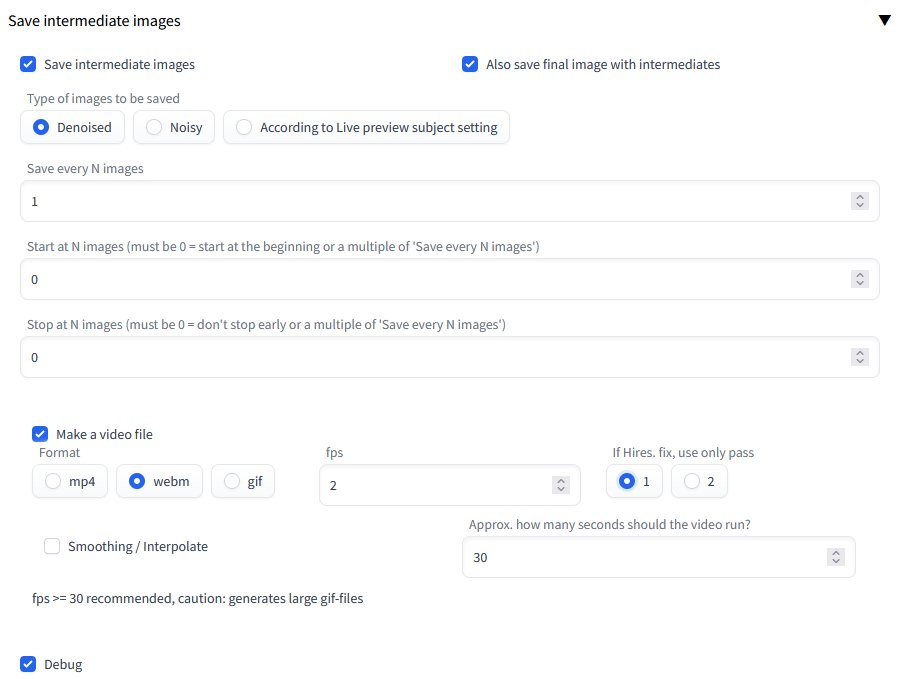
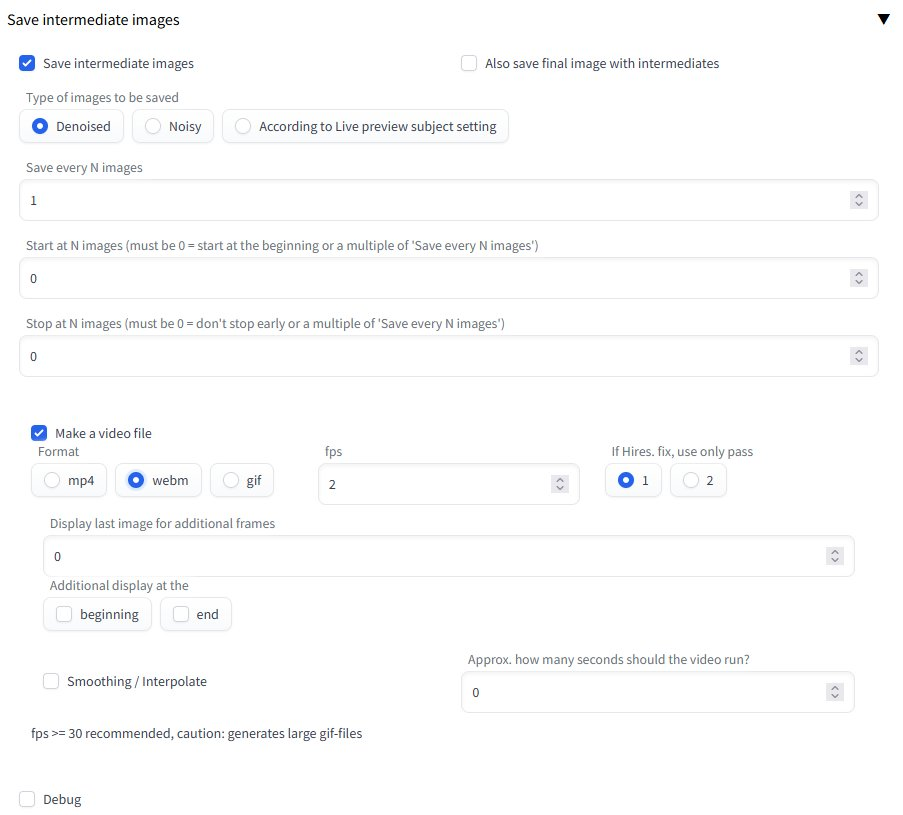
Video: Display last image options, #18

diff --git a/scripts/sd_save_intermediate_images.py b/scripts/sd_save_intermediate_images.py
@@ -18,8 +18,55 @@ import gradio as gr; gr.__version__
 
 orig_callback_state = KDiffusionSampler.callback_state
 
+# New args, regex for npp, find: (ssii_video_hires)(?=,)
+# replace: \1, ssii_add_last_frames, ssii_add_last_pos
 
-def make_video(p, ssii_is_active, ssii_final_save, ssii_intermediate_type, ssii_every_n, ssii_start_at_n, ssii_stop_at_n, ssii_video, ssii_video_format, ssii_video_fps, ssii_video_hires, ssii_smooth, ssii_seconds, ssii_debug):
+def ssii_set_num(name, i):
+    if i < 1000:
+        i = i + 1000
+    num = '{:04}'.format(i)
+    name_set_num = re.sub(r'^\d+-(\d{3,4})', f'{name.split("-")[0]}-{num}', name)
+
+    return name_set_num
+
+def ssii_add_last_frames_add(ssii_add_last_frames, add_files, i, batch_no, name_org, name_seq):
+    for frame in range(int(ssii_add_last_frames)):
+        name_added = ssii_set_num(name_seq, i)
+        add_files.append((batch_no, name_org, f"link:{name_added}"))
+        i = i + 1
+    return add_files, i
+
+def ssii_add_last_frames_logic(p, ssii_add_last_frames, ssii_add_last_pos, ssii_debug):
+    if len(ssii_add_last_pos) > 0:
+        add_files = []
+        prev_batch = None
+        for real_i, (batch_no, name_org, name_seq) in enumerate(p.intermed_files):
+            if prev_batch != batch_no:
+                if "end" in ssii_add_last_pos and prev_batch is not None:
+                    add_files, i = ssii_add_last_frames_add(ssii_add_last_frames, add_files, i, prev_batch, name_changed, prev_name_seq)
+
+                i = 0
+
+                if "beginning" in ssii_add_last_pos:
+                    name_last = next(c for a,b,c in p.intermed_files[::-1] if a == batch_no)
+                    match = re.search(r"^\d+-(\d{4})", name_last)
+                    num_last = int(match.group(1)) + int(ssii_add_last_frames)
+                    name_last = ssii_set_num(name_last, num_last)
+                    add_files, i = ssii_add_last_frames_add(ssii_add_last_frames, add_files, i, batch_no, name_last, name_seq)
+
+            name_changed = ssii_set_num(name_seq, i)
+            add_files.append((batch_no, name_org, name_changed))
+            i = i + 1
+            prev_batch = batch_no
+            prev_name_seq = name_seq
+
+        if "end" in ssii_add_last_pos:
+            add_files, i = ssii_add_last_frames_add(ssii_add_last_frames, add_files, i, batch_no, name_changed, name_seq)
+
+        p.intermed_files = add_files
+    return
+
+def make_video(p, ssii_is_active, ssii_final_save, ssii_intermediate_type, ssii_every_n, ssii_start_at_n, ssii_stop_at_n, ssii_video, ssii_video_format, ssii_video_fps, ssii_video_hires, ssii_add_last_frames, ssii_add_last_pos, ssii_smooth, ssii_seconds, ssii_debug):
     if ssii_is_active and ssii_video and ((not state.skipped and not state.interrupted) or p.intermed_stopped):
         logger = logging.getLogger(__name__)
         # ffmpeg requires sequential numbers in filenames (that is exactly +1)
@@ -28,19 +75,29 @@ def make_video(p, ssii_is_active, ssii_final_save, ssii_intermediate_type, ssii_
         for real_i, (batch_no, name_org, _) in enumerate(p.intermed_files):
             if prev_batch != batch_no:
                 i = 0
-            num_seq = '{:03}'.format(i)
-            name_seq = re.sub(r'^\d+-(\d{3})', f'{name_org.split("-")[0]}-{num_seq}', name_org)
+            name_seq = ssii_set_num(name_org, i)
             p.intermed_files[real_i] = (batch_no, name_org, name_seq)
-            path_name_org = os.path.join(p.intermed_outpath, name_org)
-            path_name_seq = os.path.join(p.intermed_outpath, name_seq)
-            os.replace(path_name_org, path_name_seq)
-            logger.debug(f"replace {filename_clean(path_name_org)} / {filename_clean(path_name_seq)}")
             i = i + 1
             prev_batch = batch_no
             frames_per_image = i
 
+        if ssii_add_last_frames > 0:
+            ssii_add_last_frames_logic(p, ssii_add_last_frames, ssii_add_last_pos, ssii_debug)
+
+        p.intermed_files.sort(key=lambda x: (x[0], x[2].startswith("link:")))
+
+        for (batch_no, name_org, name_seq) in p.intermed_files:
+            path_name_org = os.path.join(p.intermed_outpath, name_org)
+            if name_seq[:5] == "link:":
+                path_name_seq = os.path.join(p.intermed_outpath, name_seq[5:])
+                os.link(path_name_org, path_name_seq)
+            else:
+                path_name_seq = os.path.join(p.intermed_outpath, name_seq)
+                os.replace(path_name_org, path_name_seq)
+            logger.debug(f"replace/link {filename_clean(path_name_org)} / {filename_clean(path_name_seq)}")
+
         for intermed_pattern in p.intermed_pattern.values():
-            img_file = intermed_pattern.replace("%%%", "%03d") + ".png"
+            img_file = intermed_pattern.replace("%%%", "%04d") + ".png"
             vid_file = intermed_pattern.replace("%%%-", "") + "." + ssii_video_format
             if hasattr(p, "enable_hr"):
                 if p.enable_hr and ssii_video_hires == "1":
@@ -57,33 +114,37 @@ def make_video(p, ssii_is_active, ssii_final_save, ssii_intermediate_type, ssii_
                     pts = str(pts)
                 if ssii_video_format == "gif":
                     ff = FFmpeg(
-                        inputs={path_img_file: "-benchmark -framerate 1"},
+                        inputs={path_img_file: "-benchmark -framerate 1 -start_number 1000"},
                         outputs={path_vid_file: f'-filter_complex "split[v1][v2]; [v1]palettegen=stats_mode=full [palette]; [v2][palette]paletteuse=dither=sierra2_4a [v3]; [v3]setpts={pts}*PTS [v4]; [v4]minterpolate=fps={int(ssii_video_fps)}:mi_mode=mci:mc_mode=aobmc:me_mode=bidir:vsbmc=1"'}
                     )
                 else:
                     ff = FFmpeg(
-                        inputs={path_img_file: "-benchmark -framerate 1"},
+                        inputs={path_img_file: "-benchmark -framerate 1 -start_number 1000"},
                         outputs={path_vid_file: f'-filter_complex "setpts={pts}*PTS [v4]; [v4]minterpolate=fps={int(ssii_video_fps)}:mi_mode=mci:mc_mode=aobmc:me_mode=bidir:vsbmc=1"'}
                     )
             else:
                 if ssii_video_format == "gif":
                     ff = FFmpeg(
-                        inputs={path_img_file: f"-benchmark -framerate {int(ssii_video_fps)}"},
+                        inputs={path_img_file: f"-benchmark -framerate {int(ssii_video_fps)} -start_number 1000"},
                         outputs={path_vid_file: '-filter_complex "split[v1][v2]; [v1]palettegen=stats_mode=full [palette]; [v2][palette]paletteuse=dither=sierra2_4a"'}
                     )
                 else:
                     ff = FFmpeg(
-                        inputs={path_img_file: f"-benchmark -framerate {int(ssii_video_fps)}"},
+                        inputs={path_img_file: f"-benchmark -framerate {int(ssii_video_fps)} -start_number 1000"},
                         outputs={path_vid_file: None}
                     )
             ff.run()
         
-        # Back to original numbering (reversed to not run into naming conflicts)
-        for (batch_no, name_org, name_seq) in reversed(p.intermed_files):
+        # Back to original numbering
+        for (batch_no, name_org, name_seq) in p.intermed_files:
             path_name_org = os.path.join(p.intermed_outpath, name_org)
-            path_name_seq = os.path.join(p.intermed_outpath, name_seq)
-            os.replace(path_name_seq, path_name_org)
-            logger.debug(f"replace {filename_clean(path_name_seq)} / {filename_clean(path_name_org)}")
+            if name_seq[:5] == "link:":
+                path_name_seq = os.path.join(p.intermed_outpath, name_seq[5:])
+                os.unlink(path_name_seq)
+            else:
+                path_name_seq = os.path.join(p.intermed_outpath, name_seq)
+                os.replace(path_name_seq, path_name_org)
+            logger.debug(f"replace/unlink {filename_clean(path_name_seq)} / {filename_clean(path_name_org)}")
     return
 
 def filename_clean(filename):
@@ -159,6 +220,18 @@ class Script(scripts.Script):
                     )
                 with gr.Box():
                     with gr.Row():
+                        ssii_add_last_frames = gr.Number(
+                            label="Display last image for additional frames",
+                            value=0
+                        )
+                    with gr.Row():
+                        ssii_add_last_pos = gr.CheckboxGroup(
+                            label="Additional display at the",
+                            choices=("beginning", "end"),
+                            value="end"
+                        )
+                with gr.Box():
+                    with gr.Row():
                         ssii_smooth = gr.Checkbox(
                             label="Smoothing / Interpolate",
                             value=False
@@ -177,7 +250,7 @@ class Script(scripts.Script):
                 )
         with gr.Row():
             gr.HTML('<div style="padding-bottom: 0.7em;"></div><div></div>')
-        return [ssii_is_active, ssii_final_save, ssii_intermediate_type, ssii_every_n, ssii_start_at_n, ssii_stop_at_n, ssii_video, ssii_video_format, ssii_video_fps, ssii_video_hires, ssii_smooth, ssii_seconds, ssii_debug]
+        return [ssii_is_active, ssii_final_save, ssii_intermediate_type, ssii_every_n, ssii_start_at_n, ssii_stop_at_n, ssii_video, ssii_video_format, ssii_video_fps, ssii_video_hires, ssii_add_last_frames, ssii_add_last_pos, ssii_smooth, ssii_seconds, ssii_debug]
 
     def save_image_only_get_name(image, path, basename, seed=None, prompt=None, extension='png', info=None, short_filename=False, no_prompt=False, grid=False, pnginfo_section_name='parameters', p=None, existing_info=None, forced_filename=None, suffix="", save_to_dirs=None):
         # for description see modules.images.save_image, same code up saving of files
@@ -223,7 +296,7 @@ class Script(scripts.Script):
 
         return (fullfn)
 
-    def process(self, p, ssii_is_active, ssii_final_save, ssii_intermediate_type, ssii_every_n, ssii_start_at_n, ssii_stop_at_n, ssii_video, ssii_video_format, ssii_video_fps, ssii_video_hires, ssii_smooth, ssii_seconds, ssii_debug):
+    def process(self, p, ssii_is_active, ssii_final_save, ssii_intermediate_type, ssii_every_n, ssii_start_at_n, ssii_stop_at_n, ssii_video, ssii_video_format, ssii_video_fps, ssii_video_hires, ssii_add_last_frames, ssii_add_last_pos, ssii_smooth, ssii_seconds, ssii_debug):
         if ssii_is_active:
 
             # Debug logging
@@ -264,7 +337,7 @@ class Script(scripts.Script):
 
                 hr = hr_check(p)
 
-                logger.debug("ssii_intermediate_type, ssii_every_n, ssii_start_at_n, ssii_stop_at_n, ssii_video, ssii_video_format, ssii_video_fps, ssii_video_hires, ssii_smooth, ssii_seconds, ssii_debug:")
+                logger.debug("ssii_intermediate_type, ssii_every_n, ssii_start_at_n, ssii_stop_at_n, ssii_video, ssii_video_format, ssii_video_fps, ssii_video_hires, ssii_add_last_frames, ssii_add_last_pos, ssii_smooth, ssii_seconds, ssii_debug:")
                 logger.debug(f"{ssii_intermediate_type}, {ssii_every_n}, {ssii_start_at_n}, {ssii_stop_at_n}, {ssii_video}, {ssii_video_format}, {ssii_video_fps}, {ssii_video_hires}, {ssii_smooth}, {ssii_seconds}, {ssii_debug}")
                 logger.debug(f"Step: {current_step}")
                 logger.debug(f"hr: {hr}")
@@ -277,11 +350,8 @@ class Script(scripts.Script):
                             # Reset per-batch_count-attributes
                             delattr(p, "intermed_final_pass")
                             delattr(p, "intermed_max_step")
-                            print("before #")
                             # Make video for previous batch_count
-                            print("after #")
-                            make_video(p, ssii_is_active, ssii_final_save, ssii_intermediate_type, ssii_every_n, ssii_start_at_n, ssii_stop_at_n, ssii_video, ssii_video_format, ssii_video_fps, ssii_video_hires, ssii_smooth, ssii_seconds, ssii_debug)
-                            print("after make")
+                            make_video(p, ssii_is_active, ssii_final_save, ssii_intermediate_type, ssii_every_n, ssii_start_at_n, ssii_stop_at_n, ssii_video, ssii_video_format, ssii_video_fps, ssii_video_hires, ssii_add_last_frames, ssii_add_last_pos, ssii_smooth, ssii_seconds, ssii_debug)
                     else:
                         p.intermed_batch_iter = p.iteration
 
@@ -365,6 +435,7 @@ class Script(scripts.Script):
                                 p.intermed_outpath_suffix = intermed_suffix
                                 # For video logic
                                 p.intermed_files = []
+                                p.intermed_last = {}
                                 p.intermed_pattern = {}
                             else:
                                 intermed_number = int(p.intermed_outpath_number[0]) + index
@@ -407,6 +478,7 @@ class Script(scripts.Script):
                                 infotext = create_infotext(p, p.all_prompts, p.all_seeds, p.all_subseeds, comments=[], position_in_batch=index % p.batch_size, iteration=index // p.batch_size)
                                 infotext = f'{infotext}, intermediate: {current_step:03d}'
 
+                                intermed_save = True
                                 if current_step == p.intermed_ssii_stop_at_n:
                                     if (hr and p.intermed_final_pass) or not hr:
                                         # early stop for this seed reached, prevent normal save, save as final image
@@ -414,55 +486,57 @@ class Script(scripts.Script):
                                         save_image(image, p.outpath_samples, "", intermed_seed, p.prompt, opts.samples_format, info=infotext, p=p)
                                         if index == p.batch_size - 1:
                                             # early stop for final seed and final pass reached, interrupt further processing
+                                            intermed_save = False
                                             p.intermed_stopped = True
                                             state.interrupt()
-                                    else:
-                                        # save intermediate image
-                                        save_image(image, p.intermed_outpath, "", info=infotext, p=p, forced_filename=filename, save_to_dirs=False)
-                                        logger.debug(f"filename: {filename_clean(filename)}")
-                                        if ssii_video and ((hr and p.intermed_first_pass and ssii_video_hires == "1") or (hr and p.intermed_final_pass and ssii_video_hires == "2") or not hr):
-                                            p.intermed_files.append((index, filename + ".png", None))
-                                else:
+                                if intermed_save:
                                     # save intermediate image
                                     save_image(image, p.intermed_outpath, "", info=infotext, p=p, forced_filename=filename, save_to_dirs=False)
                                     logger.debug(f"filename: {filename_clean(filename)}")
-                                    if ssii_video and ((hr and p.intermed_first_pass and ssii_video_hires == "1") or (hr and p.intermed_final_pass and ssii_video_hires == "2") or not hr):
+                                    if (not ssii_video and p.intermed_final_pass) or (ssii_video and ((hr and p.intermed_first_pass and ssii_video_hires == "1") or (hr and p.intermed_final_pass and ssii_video_hires == "2") or not hr)):
                                         p.intermed_files.append((index, filename + ".png", None))
+                                        p.intermed_last[index] = (filename + ".png", p.intermed_outpath, False)
+                                        logger.debug(f"index, p.intermed_last[index]: {index}, {p.intermed_last[index]}")
                 return orig_callback_state(self, d)
 
             setattr(KDiffusionSampler, "callback_state", callback_state)
 
-    def postprocess(self, p, processed, ssii_is_active, ssii_final_save, ssii_intermediate_type, ssii_every_n, ssii_start_at_n, ssii_stop_at_n, ssii_video, ssii_video_format, ssii_video_fps, ssii_video_hires, ssii_smooth, ssii_seconds, ssii_debug):
+    def postprocess(self, p, processed, ssii_is_active, ssii_final_save, ssii_intermediate_type, ssii_every_n, ssii_start_at_n, ssii_stop_at_n, ssii_video, ssii_video_format, ssii_video_fps, ssii_video_hires, ssii_add_last_frames, ssii_add_last_pos, ssii_smooth, ssii_seconds, ssii_debug):
         setattr(KDiffusionSampler, "callback_state", orig_callback_state)
 
         # Make video for last batch_count
-        make_video(p, ssii_is_active, ssii_final_save, ssii_intermediate_type, ssii_every_n, ssii_start_at_n, ssii_stop_at_n, ssii_video, ssii_video_format, ssii_video_fps, ssii_video_hires, ssii_smooth, ssii_seconds, ssii_debug)
+        make_video(p, ssii_is_active, ssii_final_save, ssii_intermediate_type, ssii_every_n, ssii_start_at_n, ssii_stop_at_n, ssii_video, ssii_video_format, ssii_video_fps, ssii_video_hires, ssii_add_last_frames, ssii_add_last_pos, ssii_smooth, ssii_seconds, ssii_debug)
 
 def handle_image_saved(params : script_callbacks.ImageSaveParams):
     if hasattr(params.p, "intermed_is_active"):
         # Copy final image to intermediates folder
         if params.p.intermed_is_active and params.p.intermed_final_save:
             directories = os.path.normpath(params.filename).split(os.sep)
-            if "intermediates" in directories:
-                params.p.intermed_lastfile = params.filename
-            else:
-                # Convert final file name to intermediates filename
-                file_last = os.path.basename(params.p.intermed_lastfile)
-                match1 = re.search(r'^(.*?)-(\d+)(.*)$', file_last)
-                new_number = str(int(match1.group(2)) + 1).zfill(3)
-                file_new = match1.group(1) + '-' + new_number + match1.group(3)
-                file_new_path = os.path.join(os.path.dirname(params.p.intermed_lastfile), file_new)
-                logger = logging.getLogger(__name__)
-                logger.debug(f"params.p.intermed_lastfile: {filename_clean(params.p.intermed_lastfile)}")
-                logger.debug(f"params.filename: {filename_clean(params.filename)}")
-                logger.debug(f"file_new_path: {filename_clean(file_new_path)}")
-                
-                shutil.copy(params.filename, file_new_path)
+            if "intermediates" not in directories:
+                # Get last file name of current index
+                last_found = False
+                for index, (last_filename, last_path, last_done) in enumerate(params.p.intermed_last.values()):
+                    if not last_done:
+                        last_found = True
+                        params.p.intermed_last[index] = (last_filename, last_path, True)
+                        break
 
-                # Add info for make video
-                hr = hr_check(params.p)
-                if params.p.intermed_video_hires and ((hr and params.p.intermed_video_hires == "2") or not hr):
-                    intermed_files_last = params.p.intermed_files[-1]
-                    params.p.intermed_files.append((intermed_files_last[0], file_new, None))
+                if last_found:
+                    # Convert final file name to intermediates filename
+                    match1 = re.search(r'^(.*?)-(\d+)(.*)$', last_filename)
+                    new_number = str(int(match1.group(2)) + 1).zfill(3)
+                    file_new = match1.group(1) + '-' + new_number + match1.group(3)
+                    #file_new_path = os.path.join(os.path.dirname(params.p.intermed_lastfile), file_new)
+                    file_new_path = os.path.join(last_path, file_new)
+                    logger = logging.getLogger(__name__)
+                    logger.debug(f"last_filename: {filename_clean(last_filename)}")
+                    logger.debug(f"file_new_path: {filename_clean(file_new_path)}")
+                    
+                    shutil.copy(params.filename, file_new_path)
+
+                    # Add info for make video
+                    hr = hr_check(params.p)
+                    if params.p.intermed_video_hires and ((hr and params.p.intermed_video_hires == "2") or not hr):
+                        params.p.intermed_files.append((index, file_new, None))
                 
 script_callbacks.on_image_saved(handle_image_saved)
